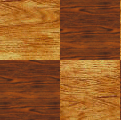
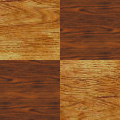
Polished ui

diff --git a/core/src/com/mygdx/game/Game.java b/core/src/com/mygdx/game/Game.java
@@ -54,26 +54,30 @@ public class Game extends ApplicationAdapter {
 	private void loadFont() {
 		FreeTypeFontGenerator generator = new FreeTypeFontGenerator(Gdx.files.internal("font.ttf"));
 		FreeTypeFontGenerator.FreeTypeFontParameter parameter = new FreeTypeFontGenerator.FreeTypeFontParameter();
-		parameter.size = 32;
+		parameter.size = WindowConfig.FONT_SIZE_NORMAL;
 		parameter.shadowOffsetY = 3;
 		parameter.shadowOffsetX = 3;
 		parameter.color = Color.WHITE;
 		parameter.shadowColor = Color.BLACK;
 
-		BitmapFont customFont = generator.generateFont(parameter);
+		BitmapFont normalFont = generator.generateFont(parameter);
+		parameter.size = WindowConfig.FONT_SIZE_HEADER;
+		BitmapFont headerFont = generator.generateFont(parameter);
+
 		generator.dispose();
 
 		TextButton.TextButtonStyle buttonStyle = new TextButton.TextButtonStyle();
 		buttonStyle.up = skin.getDrawable("buttonup");
 		buttonStyle.down = skin.getDrawable("buttondown");
 		buttonStyle.checked = skin.getDrawable("buttonchecked");
-		buttonStyle.font = customFont;
+		buttonStyle.font = normalFont;
 
 		Label.LabelStyle labelStyle = new Label.LabelStyle();
-		labelStyle.font = customFont;
+		labelStyle.font = normalFont;
 
 		skin.add("default", buttonStyle);
 		skin.add("default", labelStyle);
-		skin.add("font", customFont, BitmapFont.class);
+		skin.add("font", normalFont, BitmapFont.class);
+		skin.add("h_font", headerFont, BitmapFont.class);
 	}
 }

diff --git a/core/src/com/mygdx/game/ui/HostMenu.java b/core/src/com/mygdx/game/ui/HostMenu.java
@@ -24,22 +24,24 @@ public class HostMenu extends Menu {
         white.disable.add(black);
         black.disable.add(white);
 
-        Label label = new Label("Choose \na color!", Game.skin);
-
+        Label label1 = new Label("Choose \na color!", Game.skin);
         super.table.add(white).width(WindowConfig.BUTTON_DEFAULT_HEIGHT)
                 .height(WindowConfig.BUTTON_DEFAULT_HEIGHT).pad(20);
-        super.table.add(label);
+        super.table.add(label1);
         super.table.add(black).width(WindowConfig.BUTTON_DEFAULT_HEIGHT)
                 .height(WindowConfig.BUTTON_DEFAULT_HEIGHT).pad(20);
         super.table.row();
 
+        Label label2 = new Label("Game will be hosted at:\n" + InetAddress.getLocalHost().getHostAddress(), Game.skin);
+        label2.setAlignment(1);
+
+        super.table.add(label2).colspan(3).pad(20).row();
         super.addTextButton(3, new MyTextButton("HOST", new MyListener() {
             public void onClick() {
                 Game.machine.hostOnlineGame(white.isChecked());
             }
         }));
 
-        super.addTextButton(3, new MyTextButton("Game will be hosted at:\n" + InetAddress.getLocalHost().getHostAddress(), new MyListener()));
 
         super.addTextButton(3, new MyTextButton("BACK", new MyListener() {
             public void onClick() {

diff --git a/core/src/com/mygdx/game/WindowConfig.java b/core/src/com/mygdx/game/WindowConfig.java
@@ -3,12 +3,14 @@ package com.mygdx.game;
 public final class WindowConfig {
     public static final String TITLE = "Checkers";
     public static final int OUTSIDE_SQUARE = 750;
-    public static final int MARGIN = (int) (0.05 * OUTSIDE_SQUARE);
+    public static final int MARGIN = (int) (0.04 * OUTSIDE_SQUARE);
     public static final int INSIDE_SQUARE = OUTSIDE_SQUARE - 2 * MARGIN;
     public static final int SIZE = INSIDE_SQUARE / 8;
-    public static final int BUTTON_DEFAULT_WIDTH = (int) (WindowConfig.INSIDE_SQUARE * 0.6);
+    public static final int BUTTON_DEFAULT_WIDTH = (int) (WindowConfig.INSIDE_SQUARE * 0.65);
     public static final int BUTTON_DEFAULT_HEIGHT = (int) (WindowConfig.INSIDE_SQUARE * 0.2);
     public static final int BUTTON_DEFAULT_X = (int) (WindowConfig.INSIDE_SQUARE * 0.2);
     public static final int BUTTON_DEFAULT_STEP = (int) (WindowConfig.INSIDE_SQUARE * 0.25);
-    public static final int BUTTON_DEFAULT_PAD = 20;
+    public static final int BUTTON_DEFAULT_PAD = (int) (WindowConfig.INSIDE_SQUARE * 0.025);
+    public static final int FONT_SIZE_NORMAL = 42;
+    public static final int FONT_SIZE_HEADER = 88;
 }

diff --git a/core/src/com/mygdx/game/ui/MyTextButton.java b/core/src/com/mygdx/game/ui/MyTextButton.java
@@ -2,6 +2,7 @@ package com.mygdx.game.ui;
 
 import java.util.List;
 
+import com.badlogic.gdx.scenes.scene2d.InputEvent;
 import com.badlogic.gdx.scenes.scene2d.InputListener;
 import com.badlogic.gdx.scenes.scene2d.ui.TextButton;
 import com.mygdx.game.Game;
@@ -12,12 +13,12 @@ public class MyTextButton extends TextButton {
 
     InputListener listenerFactory(final MyListener listener) {
         return new InputListener() {
-            public boolean touchDown(com.badlogic.gdx.scenes.scene2d.InputEvent event, float x, float y, int pointer,
+            public boolean touchDown(InputEvent event, float x, float y, int pointer,
                     int button) {
                 return true;
             }
 
-            public void touchUp(com.badlogic.gdx.scenes.scene2d.InputEvent event, float x, float y, int pointer,
+            public void touchUp(InputEvent event, float x, float y, int pointer,
                     int button) {
                 if (x > 0 && x < getWidth() && y > 0 && y < getHeight()) {
                     listener.onClick();

diff --git a/core/src/com/mygdx/game/ui/StartMenu.java b/core/src/com/mygdx/game/ui/StartMenu.java
@@ -1,18 +1,23 @@
 package com.mygdx.game.ui;
 
 import com.badlogic.gdx.Gdx;
+import com.badlogic.gdx.graphics.Color;
+import com.badlogic.gdx.scenes.scene2d.ui.Label;
 import com.mygdx.game.Game;
 
 public class StartMenu extends Menu {
     public StartMenu() {
         super();
 
+        Label label2 = new Label("CHECKERS", Game.skin, "h_font", Color.WHITE);
+        label2.setAlignment(1);
+        super.table.add(label2).padTop(0).padBottom(25).row();
         super.addTextButton(new MyTextButton("NEW GAME", new MyListener() {
             public void onClick() {
                 Game.machine.toMenu(NewGameMenu.class);
             }
         }));
-        super.addTextButton(new MyTextButton("OPTIONS", new MyListener() {
+        super.addTextButton(new MyTextButton("THEME SELECTION", new MyListener() {
             public void onClick() {
                 Game.machine.toMenu(OptionsMenu.class);
             }

diff --git a/core/src/com/mygdx/game/Board.java b/core/src/com/mygdx/game/Board.java
@@ -134,7 +134,7 @@ public class Board extends Stage {
     @Override
     public void draw() {
         getBatch().begin();
-        getBatch().draw(Game.skin.get("dark_tile", Texture.class), 0, 0, WindowConfig.OUTSIDE_SQUARE,
+        getBatch().draw(Game.skin.get("background", Texture.class), 0, 0, WindowConfig.OUTSIDE_SQUARE,
                 WindowConfig.OUTSIDE_SQUARE);
         for (int i = 0; i < 4; i++) {
             for (int j = 0; j < 4; j++) {

diff --git a/core/src/com/mygdx/game/ui/Menu.java b/core/src/com/mygdx/game/ui/Menu.java
@@ -15,7 +15,7 @@ public class Menu extends Stage {
 
     public void drawBackground() {
         getBatch().begin();
-        getBatch().draw(Game.skin.get("light_tile", Texture.class), 0, 0,
+        getBatch().draw(Game.skin.get("background", Texture.class), 0, 0,
                 Gdx.graphics.getWidth(),
                 Gdx.graphics.getHeight());
         getBatch().end();

diff --git a/core/src/com/mygdx/game/ui/PauseMenu.java b/core/src/com/mygdx/game/ui/PauseMenu.java
@@ -47,7 +47,7 @@ public class PauseMenu extends Menu {
             super.addTextButton(button, 5f);
         }
 
-        super.addTextButton(new MyTextButton("EXIT TO MENU", new MyListener() {
+        super.addTextButton(new MyTextButton("EXIT GAME", new MyListener() {
             public void onClick() {
                 Game.machine.toMenu(StartMenu.class);
             }
